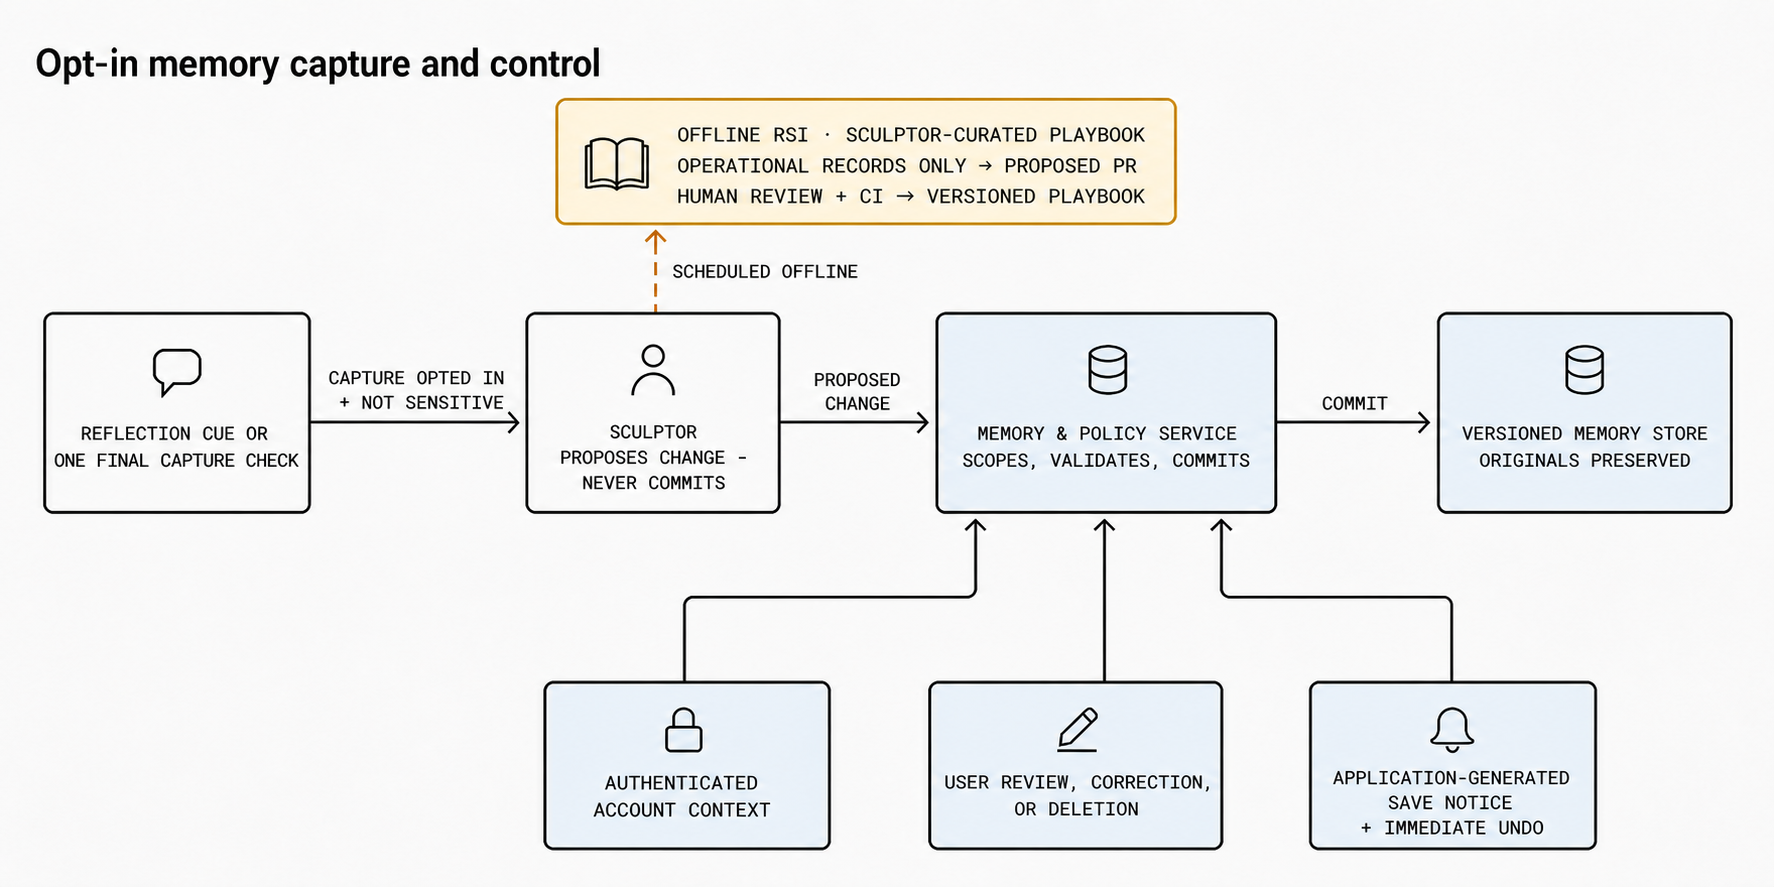
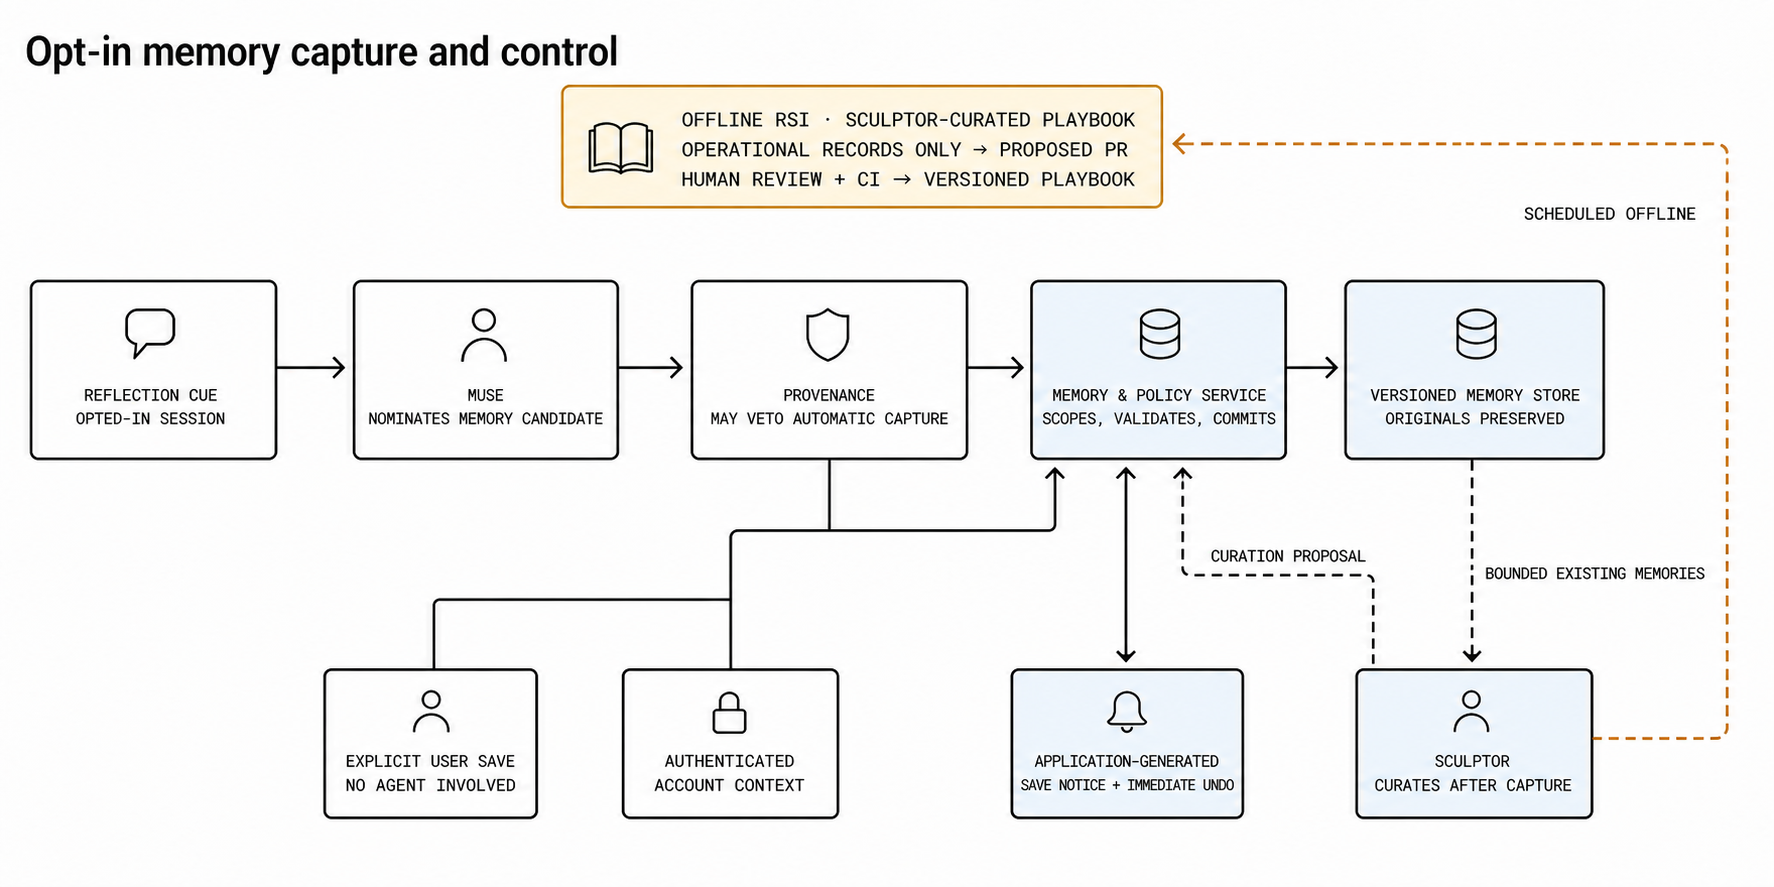
Align memory capture and Sculptor roles

diff --git a/docs/specification.md b/docs/specification.md
@@ -27,10 +27,10 @@ The core journey is:
 |---|---|
 | **Reflect** | Muse drafts responses to text or a photograph and asks a small number of useful follow-up questions. Provenance reviews every complete draft before display, including drafts with no declared factual claims. |
 | **Ground** | Librarian retrieves authorised book passages and memories. Muse drafts a response separating quotations, user statements, and generated interpretation; Provenance checks the complete draft and its claimed support. |
-| **Preserve** | After explicit onboarding opt-in, Sculptor captures and organises useful memories automatically. Each save is disclosed with immediate undo; the user may pause, review, correct, or delete memories. |
+| **Preserve** | The user may save a memory explicitly, or, after explicit onboarding opt-in, Muse may nominate a useful reflection for automatic capture. Provenance may veto an unsafe automatic candidate, and the deterministic Memory & Policy Service alone validates and commits every save. Each save is disclosed with immediate undo; the user may pause, review, correct, or delete memories. Sculptor later curates existing memories for retrieval. |
 | **Reconnect** | Muse may ask Serendipity to explore a cue across memories, books, photographs, and general web evidence. Muse drafts the tentative connection, and Provenance reviews the whole reply and its evidence before release. |
 
-Automatic capture does not require per-memory approval once enabled. Content about sensitive traits is excluded from automatic capture and may be saved only through an explicit user action.
+Automatic capture does not require per-memory approval once enabled, but it does require a Muse nomination, no Provenance veto, and deterministic policy approval. Content about sensitive traits is excluded from automatic capture and may be saved only through an explicit user action.
 
 ## 3. Prototype scope
 
@@ -74,28 +74,28 @@ The system contains five reasoning agents and one deterministic service:
 
 | Component | Responsibility | Write authority |
 |---|---|---|
-| **Muse** | Maintains the reflection conversation, handles photographs and spoiler uncertainty, routes work, and produces candidate responses that cannot be sent directly to the user. | None |
+| **Muse** | Maintains the reflection conversation, handles photographs and spoiler uncertainty, routes work, and produces candidate responses that cannot be sent directly to the user. Its typed output may also nominate one `MemoryCandidate` for automatic capture or return `NoMemoryCandidate`. | None |
 | **Librarian** | Plans, executes, fuses, and reranks retrieval across the corpus and authorised memories. | None |
-| **Sculptor** | Proposes structured memories, summaries, duplicate links, groups, and derived-record updates while preserving originals. A scheduled Sculptor task, run outside user conversations, also curates the system playbook of operational lessons (Section 9.2). | May request memory writes; may propose playbook pull requests |
+| **Sculptor** | Curates bounded sets of existing memories for retrieval by proposing derived summary or formatting updates, duplicate links, and topic groups while preserving originals. A scheduled Sculptor task, run outside user conversations, also curates the system playbook of operational lessons (Section 9.2). | May propose curation changes and playbook pull requests; no direct writes |
 | **Serendipity** | Searches internal and optional web evidence and proposes or declines tentative connections. | None |
-| **Provenance** | Semantically reviews every complete Muse candidate response and passes, requests one revision, or rejects it based on evidence, attribution, privacy, spoiler, sensitive-inference, and injection checks. | None |
-| **Memory & Policy Service** | Authenticates account scope and deterministically enforces access, storage, versioning, review, and cascading deletion. | Commits validated writes |
+| **Provenance** | Semantically reviews every complete Muse candidate response and passes, requests one revision, or rejects it based on evidence, attribution, privacy, spoiler, sensitive-inference, and injection checks. In the same review call, it may independently veto an unsafe automatic `MemoryCandidate`. | None |
+| **Memory & Policy Service** | Authenticates account scope and deterministically enforces capture opt-in, access, storage, idempotency, versioning, review, and cascading deletion. It accepts explicit user saves directly and automatic candidates only after the required review. | Commits validated writes |
 
-The Memory & Policy Service derives account identity from authenticated request context and never accepts it from model output; agents cannot choose or widen account scope. User review, correction, and deletion actions go directly from the web interface to the service and are not mediated by a model.
+The Memory & Policy Service derives account identity from authenticated request context and never accepts it from model output; agents cannot choose or widen account scope. Explicit saves, review, correction, and deletion actions go directly from the web interface to the service and are not mediated by a model.
 
 Agents are logical roles, not necessarily separate models or processes. Muse handles the main interaction; Librarian, Sculptor, and Serendipity are invoked only when their specialised work is needed; Provenance runs for every Muse candidate response.
 
-The five roles separate conversation, retrieval, memory curation, connection generation, and independent verification. Each agent is handed only the task in front of it, never the whole conversation; deterministic application code enforces access, writes, and output release.
+The five roles separate conversation and optional memory nomination, retrieval, post-capture memory curation, connection generation, and independent verification. Each agent is handed only the task in front of it, never the whole conversation; deterministic application code enforces access, capture, writes, and output release.
 
-Each hand-off carries only the candidate response, claims, evidence identifiers, confidence, and policy flags required by the next step. Full transcripts and unrestricted working context are not passed between agents.
+Each hand-off carries only the candidate response, optional memory candidate, claims, evidence identifiers, confidence, and policy flags required by the next step. Full transcripts and unrestricted working context are not passed between agents.
 
-Provenance is a separate model call that shares no working context with the other agents. It receives the complete candidate response, the cited evidence, and the applicable policy constraints — nothing else, and no write tools. It independently detects quotations, factual claims, and sensitive inferences instead of trusting Muse's declarations. This provides separation of duties, not model independence, because the same underlying model may be used.
+Provenance is a separate model call that shares no working context with the other agents. It receives the complete candidate response, any optional `MemoryCandidate`, the cited evidence, and the applicable policy constraints — nothing else, and no write tools. It independently detects quotations, factual claims, and sensitive inferences instead of trusting Muse's declarations. This provides separation of duties, not model independence, because the same underlying model may be used.
 
 ### 4.1 Output release contract
 
-Every Muse invocation returns a typed candidate containing the complete response text plus its declared claims, quotations, evidence identifiers, and sensitive-inference flags. Those fields assist review but do not authorise release: Provenance examines the entire draft and may identify items Muse omitted or misclassified. Regular expressions and structural checks may provide defence in depth, but they are not the semantic security boundary.
+Every Muse invocation returns a typed candidate containing the complete response text plus its declared claims, quotations, evidence identifiers, sensitive-inference flags, and `MemoryCandidate | NoMemoryCandidate`. Those fields assist review but do not authorise release or capture: Provenance examines the entire draft and any proposed memory and may identify items Muse omitted or misclassified. Regular expressions and structural checks may provide defence in depth, but they are not the semantic security boundary.
 
-Provenance returns `pass`, `revise`, or `reject`. After a semantic pass, application code validates exact quotations, citation locations, account scope, and spoiler constraints where applicable. Only approved output is displayed. A first `revise` verdict gives Muse one revision, which returns through the same review path; a rejection or failed revision produces an application-authored safe decline.
+Provenance returns `pass`, `revise`, or `reject` for the user-facing response and, when a `MemoryCandidate` is present, an independent `allow_capture` or `reject_capture` decision. Rejecting capture does not suppress an otherwise safe response. After a semantic pass, application code validates exact quotations, citation locations, account scope, and spoiler constraints where applicable. Only approved output is displayed. A first `revise` verdict gives Muse one revision, which returns through the same review path; a rejection or failed revision produces an application-authored safe decline.
 
 ### 4.2 End-to-end flows
 
@@ -107,7 +107,9 @@ Muse asks Librarian for evidence only when grounding is needed, but every path p
 
 #### 4.2.2 Opt-in memory capture and control
 
-Sculptor may propose a memory change, but the Memory & Policy Service owns access control and every write. The application-generated save notice reports the committed operation; it is not an unreviewed Muse response or a model-generated paraphrase.
+Explicit user saves go directly from the web interface to the Memory & Policy Service without an agent. For automatic capture, Muse may nominate one typed `MemoryCandidate`; Provenance may veto it for privacy, sensitive inference, unsupported provenance, or injection risk. The Memory & Policy Service then derives account scope, checks opt-in and idempotency, validates the request, and owns every write. The application-generated save notice reports only a committed operation and provides immediate undo.
+
+Sculptor is not part of capture. It later receives a bounded, account-scoped set of existing memories and may return a `CurationProposal | NoCurationProposal`; the Memory & Policy Service validates and applies permitted derived changes without modifying originals.
 
 ![Opt-in memory capture and control flow](images/opt-in-memory-capture-and-control.png)
 
@@ -169,11 +171,23 @@ Every candidate response contains:
 - declared claims and quotations;
 - cited evidence identifiers;
 - sensitive-inference and policy flags; and
+- `MemoryCandidate | NoMemoryCandidate`; and
 - revision metadata, when applicable.
 
-Muse's declarations are untrusted review hints. They do not narrow what Provenance must inspect or what application code must validate.
+Muse's declarations and memory nomination are untrusted review hints. They do not narrow what Provenance must inspect or what application code must validate.
 
-### 5.5 Connection proposal
+### 5.5 Memory candidate
+
+An automatic `MemoryCandidate` contains only:
+
+- the user's original words proposed for capture;
+- the source turn and evidence identifiers, when applicable;
+- a concise nomination reason; and
+- sensitive-inference and policy flags.
+
+`NoMemoryCandidate` contains a machine-checkable reason code. Neither type contains account scope or write authority. Explicit user saves bypass this agent contract and go directly to the Memory & Policy Service.
+
+### 5.6 Connection proposal
 
 A connection proposal contains:
 
@@ -197,7 +211,8 @@ Whenever an exact quotation is displayed or stored, application code verifies it
 
 - Automatic capture requires explicit onboarding opt-in.
 - Every capture produces a visible notice and immediate undo.
-- Before a long opted-in conversation is compacted or closed, Sculptor makes one final check for an important uncaptured reflection, under the same notice, undo, and sensitive-content rules.
+- Before a long opted-in conversation is compacted or closed, Muse may make one final memory nomination through the same Provenance review and deterministic capture path.
+- Explicit saves go directly to the Memory & Policy Service; no agent mediates user control actions.
 - Raw photographs remain transient unless the user explicitly saves them.
 - Derived memories from photographs may be captured only while opt-in remains active.
 - Sensitive-trait content is never captured automatically.
@@ -243,6 +258,8 @@ Before implementation, the repository will contain 40 versioned JSON or YAML cas
 - 5 memory-capture cases;
 - 10 expected-connection cases; and
 - 5 weak-evidence cases.
+
+The five memory-capture cases evaluate Muse nomination, Provenance vetoes, explicit agent-free saves, and deterministic opt-in, account-scope, sensitive-content, and idempotency enforcement. Sculptor curation is evaluated separately using seeded duplicate, noisy, grouped, and no-change memory sets under Section 7.1.
 
 Shared deterministic checks validate citations, evidence identifiers, disclosure boundaries, and Provenance verdict coverage across the set. The harness reports reflection-action accuracy; semantic detection recall for quotations, factual claims, and sensitive inferences; unsupported-claim block rate; non-factual pass rate; memory-capture precision and recall; target-connection hit rate; evidence recall; citation precision; exact-quotation accuracy; weak-evidence decline rate; latency; and cost.
 
@@ -317,7 +334,7 @@ Two loops are in scope.
 
 - Every RSI output is a proposal. Humans review and CI gates every merge; no loop applies changes to prompts, policies, code, or evaluation cases itself.
 - Both loops run on a schedule, not during user conversations, and add no latency or authority to any user-facing flow.
-- No agent gains write authority: playbook and evaluation-case writes happen through repository review, not through the Memory & Policy Service, and Sculptor's product-side write path is unchanged.
+- No agent gains write authority: playbook and evaluation-case writes happen through repository review, not through the Memory & Policy Service, and Sculptor's product-side curation path remains proposal-only.
 - Loops consume only the operational metadata permitted by Section 8.1 — never raw personal memories, full messages, or sensitive-inference content.
 - Autonomous prompt or skill self-modification remains out of scope (Section 3.3); metric trends are reported without claiming measured product uplift.
 
